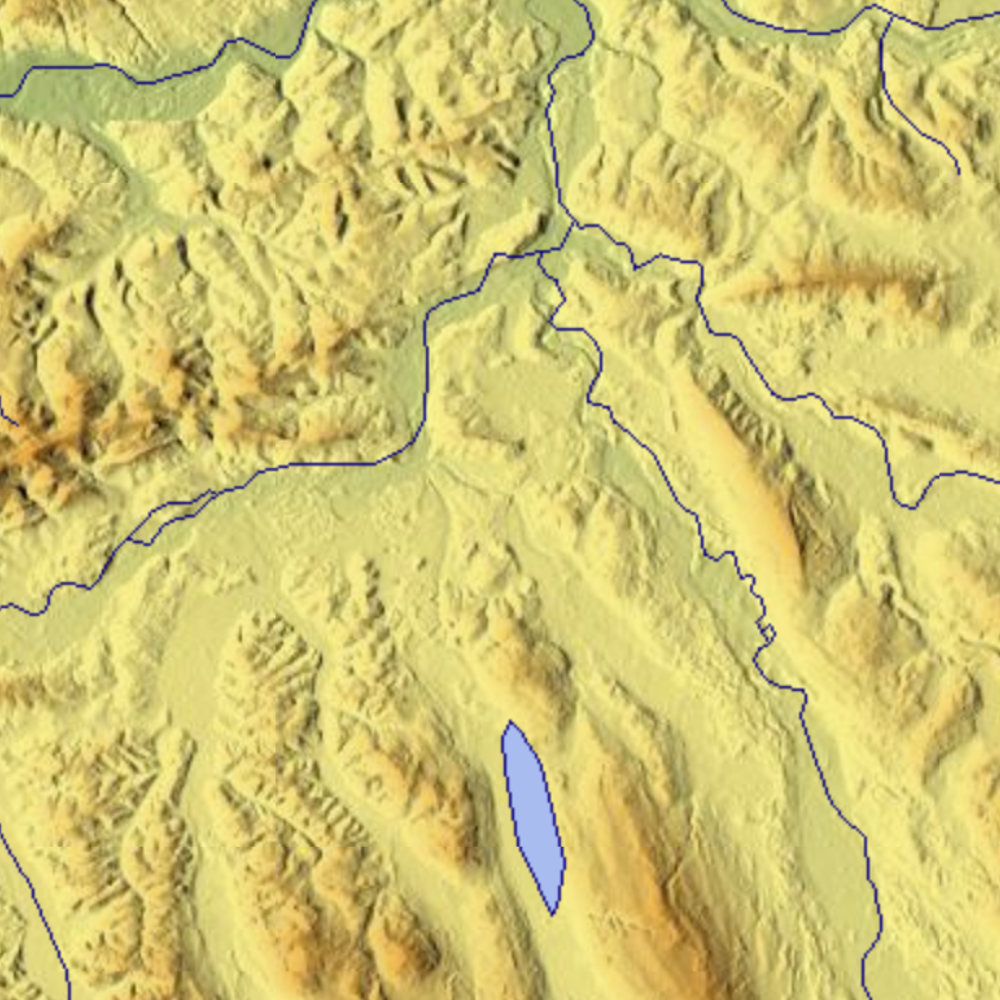
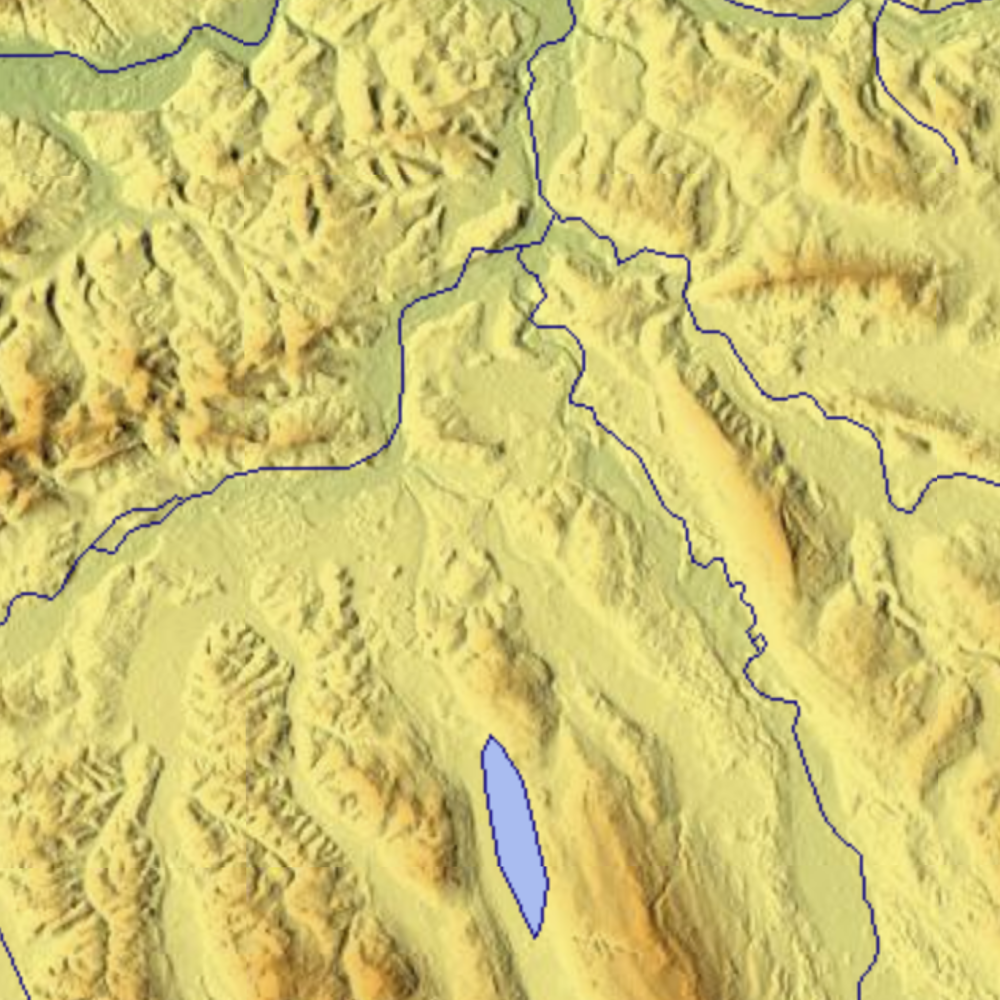
added readme

diff --git a/README.md b/README.md
@@ -1,2 +1,4 @@
-# topography-pcl-viewer
+# Topography PCL Viewer
 A simple topography pointcloud viewer.
+
+![](example.jpg)
